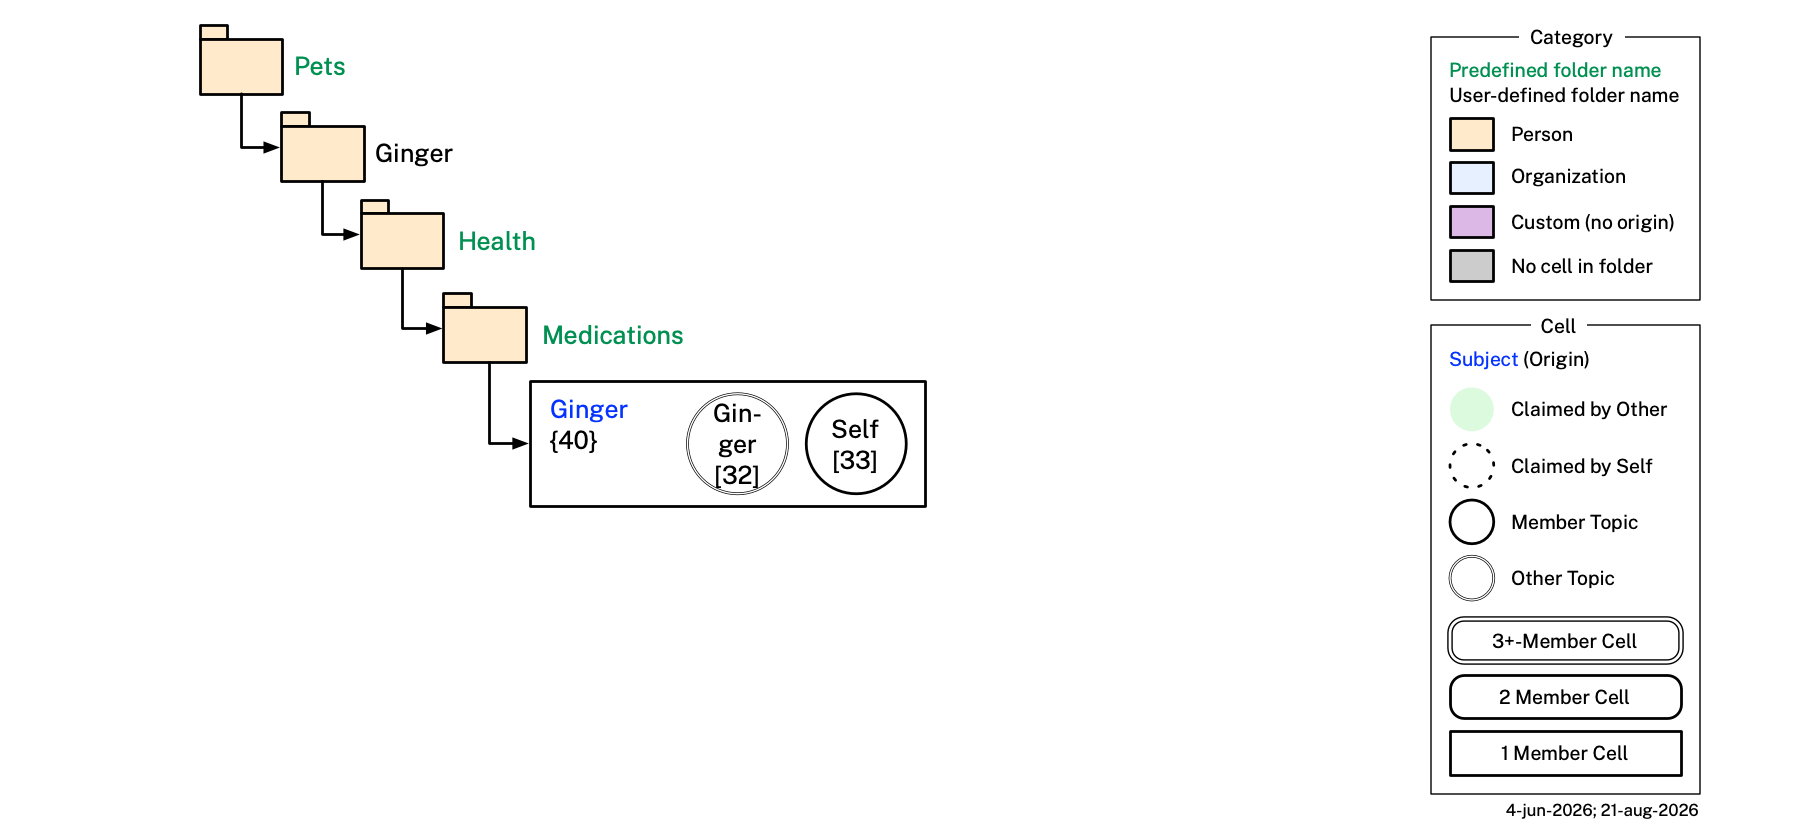
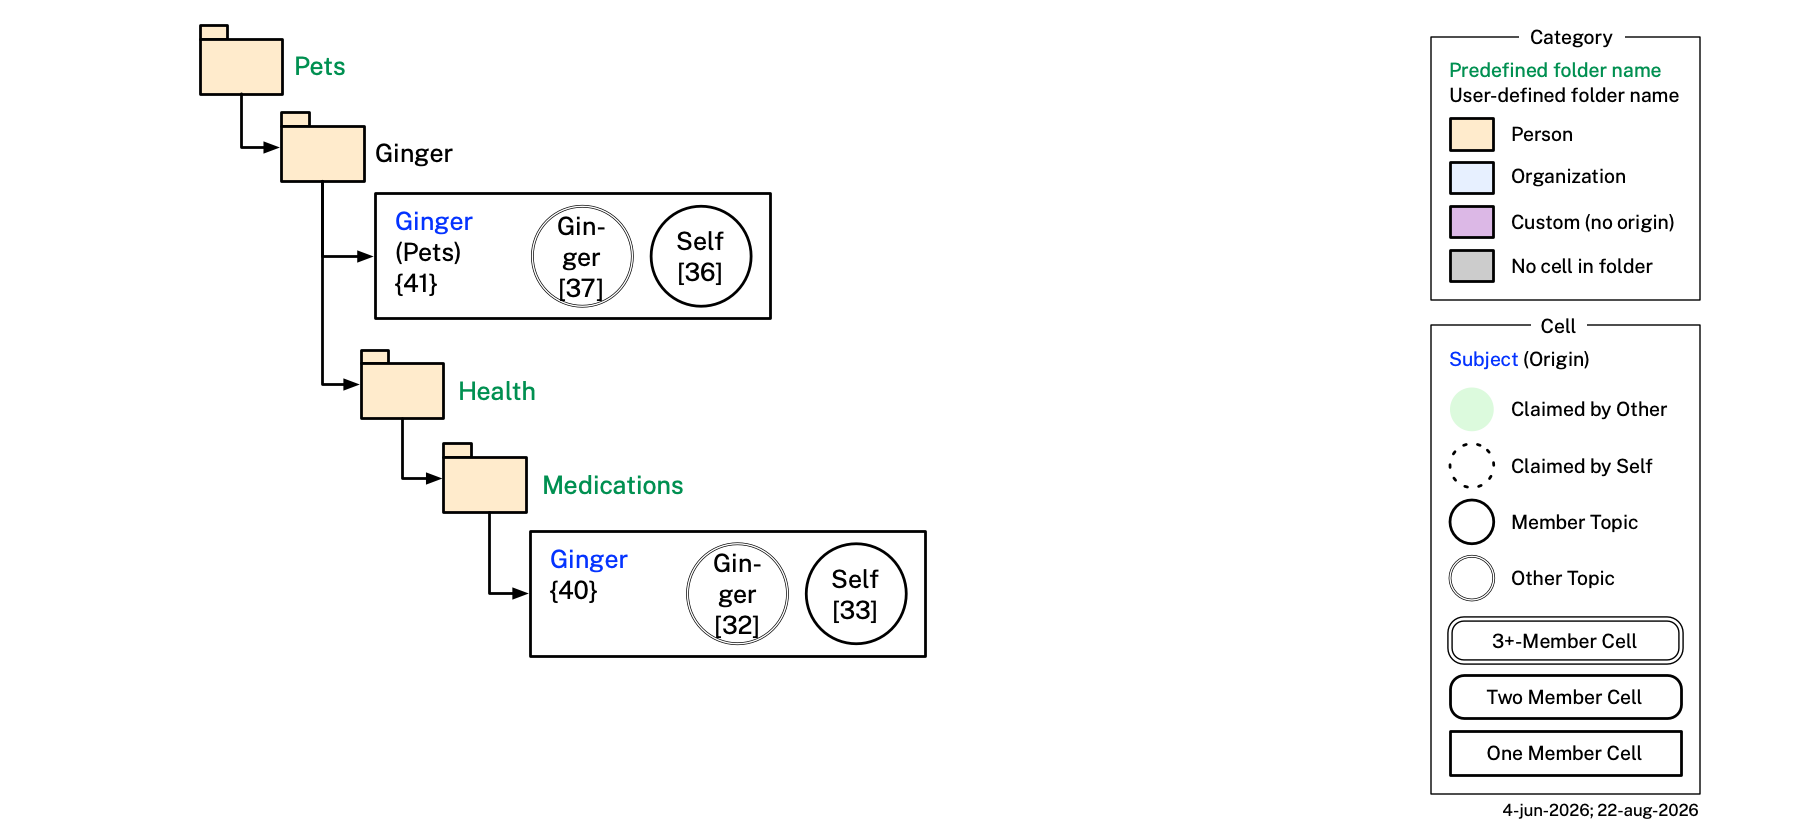
Confirm pets.png redraw; mark topic.png/category.png checks resolved
pets.png (redrawn 22-aug-2026): now shows a content box for the
"Ginger" cell (cell-41, {41}, member topic [36]/other topic [37]) in
addition to the existing "Medications" cell box (cell-40, {40}, member
topic [33]/other topic [32]) — closing the Check 1 gap where topics 36
and 37 had EXAMPLE.md rows but no diagram circle. Verified against
Checks 10a-10j: folder nesting, fill/text colors, subject/origin text,
border style, and {NN}/[NN] labels all match the real cell-databooks.

CLAUDE.md Checks 13 and 14 (topic.png/category.png vs topic.ttl/
category.ttl) are also marked Resolved: both diagrams were found to
already be redrawn and correctly matching their ontologies (current
TopicGraph/SCTopicGraph labels; Category with the Folder facet fully
dropped) — only the check text itself was stale.

diff --git a/CLAUDE.md b/CLAUDE.md
@@ -318,7 +318,7 @@ Note: this check's `^id:\s*(\S+)` regex is anchored at true line-start with no l
 
 - **10h — Black parenthetical origin-label text matches `cell:origin`'s class label**: Immediately after the blue Subject text (e.g. `Self (Companies)`), a cell box may carry a black parenthetical giving its `cell:origin` class's `rdfs:label` (from `category.ttl`) in human-readable form. It follows the exact same compression rule as the Category/Cell DataBook Filename Convention's `<local>(<catType>)` filename form: shown only when that label differs from the box's own folder-name label, and omitted entirely when the two are identical. This text must match the co-located cell-databook's actual `mia.origin` class's `rdfs:label`, verbatim — no more and no fewer words, never invented or abbreviated further. This is a visual check (no script) — e.g. `companies.png`'s "Google" and "ATT" boxes both show `(Companies)`, matching their shared `mia.origin: "cat:Companies"` (label "Companies"); `gov-state.png`'s "Texas Vital Records" and "California DMV" boxes show `(Birth Certificate)` and `(Drivers License)`, matching `cat:BirthCertificate`'s and `cat:DriversLicense`'s labels; `misc.png`'s "Ownership" box shows no parenthetical at all, correctly compressed since `cat:Ownership`'s label already equals the folder name "Ownership".
 
-- **10i — Black curly-brace `{NN}` label matches the cell's own `cell-<NN>` id**: As the last line of a cell box's content (immediately below the Subject/Origin text), a cell box may carry a small black `{NN}` label in curly braces — the cell's own number. As of the 8-aug-2026 rollout this label has been added to every cell box across the 10 pre-existing diagrams (a bare scaffolding folder with no rendered content box, e.g. `Work`/`Acme`/`Employees`, still carries none — that remains fine, not a violation); `pets.png` (the 11th diagram) is pending the user's manual draw and is expected to show its "Medications" box with `{40}` once drawn. Wherever `{NN}` appears, it must equal the zero-padded two-digit `<NN>` from the co-located cell-databook's own `id: http://www.example.org/mia/cells/cell-<NN>` (see Check 9). Don't confuse this with the numbered topic circles' `[NN]` labels (Check 10d) — those are topic numbers in square brackets attached to a circle; this is the cell's own number in curly braces attached to the box itself. This is a visual check (no automated OCR), but the script below prints every folder's actual `cell-<NN>` for quick cross-reference against whichever diagram is being checked — e.g. `people.png`'s "Bob Johnson" box shows `{16}` and its "Fred Flintstone" box shows `{17}`; `people2.png`'s "Paula Walker" (Immediate Family) box shows `{12}`, "Health & Wellness" shows `{13}`, "Jane Starostina" shows `{14}`, and "Med. App. Info" shows `{15}`; `companies.png`'s "Google"/"ATT" boxes show `{3}`/`{2}`; `finances.png`'s "Citibank" box shows `{4}`; `gov-state.png`'s "Texas Vital Records"/"California DMV" boxes show `{10}`/`{9}`; `gov-federal.png`'s "Social Security Administration"/"Department of State" boxes show `{6}`/`{5}`; `gov-municipality.png`'s "Boston"/"Paradise" boxes show `{7}`/`{8}`; `misc.png`'s "Ownership" box shows `{11}`; `affiliations.png`'s "Boston Hub Society" box shows `{1}`; `work.png`'s "Paula"/"Alice Walker" boxes show `{19}`/`{18}` — all confirmed matching their cell-databooks' actual ids. Run:
+- **10i — Black curly-brace `{NN}` label matches the cell's own `cell-<NN>` id**: As the last line of a cell box's content (immediately below the Subject/Origin text), a cell box may carry a small black `{NN}` label in curly braces — the cell's own number. As of the 8-aug-2026 rollout this label has been added to every cell box across all 11 diagrams (a bare scaffolding folder with no rendered content box, e.g. `Work`/`Acme`/`Employees`, still carries none — that remains fine, not a violation); `pets.png` was drawn 22-aug-2026 and confirmed showing its "Ginger" box with `{41}` and its "Medications" box with `{40}`. Wherever `{NN}` appears, it must equal the zero-padded two-digit `<NN>` from the co-located cell-databook's own `id: http://www.example.org/mia/cells/cell-<NN>` (see Check 9). Don't confuse this with the numbered topic circles' `[NN]` labels (Check 10d) — those are topic numbers in square brackets attached to a circle; this is the cell's own number in curly braces attached to the box itself. This is a visual check (no automated OCR), but the script below prints every folder's actual `cell-<NN>` for quick cross-reference against whichever diagram is being checked — e.g. `people.png`'s "Bob Johnson" box shows `{16}` and its "Fred Flintstone" box shows `{17}`; `people2.png`'s "Paula Walker" (Immediate Family) box shows `{12}`, "Health & Wellness" shows `{13}`, "Jane Starostina" shows `{14}`, and "Med. App. Info" shows `{15}`; `companies.png`'s "Google"/"ATT" boxes show `{3}`/`{2}`; `finances.png`'s "Citibank" box shows `{4}`; `gov-state.png`'s "Texas Vital Records"/"California DMV" boxes show `{10}`/`{9}`; `gov-federal.png`'s "Social Security Administration"/"Department of State" boxes show `{6}`/`{5}`; `gov-municipality.png`'s "Boston"/"Paradise" boxes show `{7}`/`{8}`; `misc.png`'s "Ownership" box shows `{11}`; `affiliations.png`'s "Boston Hub Society" box shows `{1}`; `work.png`'s "Paula"/"Alice Walker" boxes show `{19}`/`{18}` — all confirmed matching their cell-databooks' actual ids. Run:
 
 ```python
 import glob, re
@@ -332,9 +332,9 @@ for path in sorted(glob.glob('example/Cells/**/*.databook.md', recursive=True)):
         print(f'{m.group(1)}  {path}')
 ```
 
-- **10j — Fill color and folder-name-text color match real data**: Every cell across all 11 diagrams carries exactly two independent, mechanically-checkable colors, matching Check 10a's Person/Organization/Custom fill-swatch legend (see Check 15's identical rule for `cat-cell-topic.png`): a **fill** color, applied to the folder icon itself (the cell's own content box is always plain white and never carries fill) — tan if the folder's `mia.origin` resolves to `cat:Person`, light blue if `cat:Organization`, purple/Custom if the cell has no origin at all — and a folder-**name-text** color (green/"Predefined" if the folder's `title:` equals the origin class's own `rdfs:label` verbatim, plain black/"User-defined" otherwise — always black for a no-origin/Custom cell). This is a visual check (no automated pixel/OCR comparison) — use Check 20's script (identical rule, just applied to a different set of diagrams) to compute the correct fill/text color for every real folder and cross-reference against whichever diagram is being checked. Confirmed against the 10 pre-existing diagrams — e.g. `people.png`: "People"/"Others" tan fill + green text; "Bob Johnson"/"Fred Flintstone" tan fill + black text; `work.png`: "Paula"/"Alice Walker" light-blue fill + black text; `people2.png`: "Paula Walker"/"Jane Starostina"/"Med. App. Info" tan fill + black text; `companies.png`/`finances.png`/`gov-state.png`/`gov-federal.png`/`gov-municipality.png`/`misc.png`/`affiliations.png` all correctly updated too. `pets.png` (the 11th diagram, added alongside `cat:Pets`/`cat:PetsHealth`/`cat:PetsMedications`) is pending the user's manual draw — not yet confirmed. No real example cell currently uses the Custom (no-origin, `(custom)` filename) case — all 39 currently have an origin — so no example diagram box is expected to show purple fill yet.
+- **10j — Fill color and folder-name-text color match real data**: Every cell across all 11 diagrams carries exactly two independent, mechanically-checkable colors, matching Check 10a's Person/Organization/Custom fill-swatch legend (see Check 15's identical rule for `cat-cell-topic.png`): a **fill** color, applied to the folder icon itself (the cell's own content box is always plain white and never carries fill) — tan if the folder's `mia.origin` resolves to `cat:Person`, light blue if `cat:Organization`, purple/Custom if the cell has no origin at all — and a folder-**name-text** color (green/"Predefined" if the folder's `title:` equals the origin class's own `rdfs:label` verbatim, plain black/"User-defined" otherwise — always black for a no-origin/Custom cell). This is a visual check (no automated pixel/OCR comparison) — use Check 20's script (identical rule, just applied to a different set of diagrams) to compute the correct fill/text color for every real folder and cross-reference against whichever diagram is being checked. Confirmed against all 11 diagrams — e.g. `people.png`: "People"/"Others" tan fill + green text; "Bob Johnson"/"Fred Flintstone" tan fill + black text; `work.png`: "Paula"/"Alice Walker" light-blue fill + black text; `people2.png`: "Paula Walker"/"Jane Starostina"/"Med. App. Info" tan fill + black text; `companies.png`/`finances.png`/`gov-state.png`/`gov-federal.png`/`gov-municipality.png`/`misc.png`/`affiliations.png` all correctly updated too; `pets.png` (drawn 22-aug-2026, alongside `cat:Pets`/`cat:PetsHealth`/`cat:PetsMedications`): "Pets"/"Health"/"Medications" tan fill + green text (folder name matches origin label), "Ginger" tan fill + black text (origin `cat:Pets` label "Pets" ≠ folder name "Ginger"). No real example cell currently uses the Custom (no-origin, `(custom)` filename) case — all 40 currently have an origin — so no example diagram box is expected to show purple fill yet.
 
-The 11 diagrams are: `example/images/people.png`, `example/images/people2.png`, `example/images/work.png`, `example/images/companies.png`, `example/images/finances.png`, `example/images/gov-state.png`, `example/images/gov-federal.png`, `example/images/gov-municipality.png`, `example/images/misc.png`, `example/images/affiliations.png`, `example/images/pets.png`. (`health.png` was intentionally deleted — it wasn't useful; its content, e.g. Health & Wellness/Medical/Providers, lives in `people2.png` instead. `pets.png` is referenced from `EXAMPLE.md`'s "Ginger's Medications" section but does not yet exist on disk — pending the user's manual draw; Check 8 will flag it as a missing image link until then.)
+The 11 diagrams are: `example/images/people.png`, `example/images/people2.png`, `example/images/work.png`, `example/images/companies.png`, `example/images/finances.png`, `example/images/gov-state.png`, `example/images/gov-federal.png`, `example/images/gov-municipality.png`, `example/images/misc.png`, `example/images/affiliations.png`, `example/images/pets.png`. (`health.png` was intentionally deleted — it wasn't useful; its content, e.g. Health & Wellness/Medical/Providers, lives in `people2.png` instead. `pets.png` was drawn by the user 22-aug-2026 and confirmed against all sub-checks 10a–10j — it shows both the "Ginger" cell (cell-41, `{41}`, topics `[36]`/`[37]`) and the "Medications" cell (cell-40, `{40}`, topics `[32]`/`[33]`) as separate content boxes under the `Pets → Ginger → Health → Medications` folder nesting.)
 
 **Check 11 — Physical folder structure IS the category tree in `example/Cells/`**: This check applies only to `example/Cells/` — the user's own instance tree — since there is no longer a separate canonical-instance file tree to mirror (`categories-person/`/`categories-org/` were removed in category.ttl 1.8.0). There is no longer a `mia.child`/`mia.cell` YAML list to cross-check the tree against either — category.ttl 1.31.0 deleted `cat:child`/`cat:cell` (and `cat:Folder` itself) outright, so this check has no independently-asserted list to "mirror" at all; it collapses to a pure filesystem sanity check with no YAML frontmatter parsing at all. A folder counts as a category-tree node ("marker dir") iff it directly contains exactly one `*.databook.md` file (the only DataBook type in a user's instance tree is now cell-databook, so no `-cell` marker is needed to identify one) — that file is simultaneously the folder's real (or placeholder) content and its tree-node marker (cell.ttl's folder ownership boundary rule, 3.16.0/3.19.0). A folder can never legally hold more than one cell-databook (cell.ttl 3.22.0): a `cell:Cell` is self-contained, and letting two cells share a folder would risk a single file in that folder becoming ambiguously part of both — this check flags any such folder as an error. Folder naming is not standardized — it may be the category's display label, a role-based label, or anything else — but a cell-databook's own filename is now always the folder's exact verbatim name (see the Category/Cell DataBook Filename Convention), so this check's per-folder marker test and its filename root are one and the same string. ⚠ **Corrected, 22-aug-2026**: this used to additionally forbid bare, marker-less pass-through directories between two marker dirs — that was wrong, and directly contradicted README.md's own definition of a "regular filesystem folder" ("A folder without a matching cell DataBook is simply a regular file system folder, not a category folder — **even if it contains nested category folders of its own**"). A bare folder with no cell-databook of its own is legal anywhere in the tree, including between two marker dirs, as long as it isn't otherwise empty (i.e. something beneath it eventually has a cell-databook) — no current example under `example/Cells/` happens to need this (every existing folder, `example/Cells/Pets/Ginger/` included, turned out to warrant its own cell-databook after all — see `cat:Pets`'s reuse pattern below), but the rule itself remains correct and available for a future folder that's purely organizational. Run:
 
@@ -406,14 +406,14 @@ If a `TOO MANY CELLS` issue is found, move the extra file(s) out to their own ne
 - **12c** — the class hierarchy `Cell` → `TCell`/`ACell` (both abstract), and separately `ACell` → `MultiMember` (abstract) → `TwoMember`/`ThreePlusMember`, plus `ACell` → `OneMember`, shown in the diagram matches `cell.ttl`'s actual `rdfs:subClassOf` relationships (by class local name, not just position). `OneMember` and `MultiMember` must not be drawn as direct children of `Cell` — both moved under `ACell` in cell.ttl 3.7.0.
 - **12d** — ⚠ **Corrected, 22-aug-2026**: this item previously claimed `cell.png` displays each concrete `Cell` subtype's example `cell:label` value (`"Single-Member Cell"`, `"Two-Member Cell"`, `"Multi-Member Cell"`, later renamed `"1 Member Cell"`/`"2 Member Cell"`/`"3+ Member Cell"`) somewhere in the diagram, and that this text must match `cell.ttl`'s actual `cell:label` values. Direct inspection of the current `cell.png` shows this is not true — the diagram only draws the bare class local names (`OneMember`, `TwoMember`, `ThreePlusMember`) as box labels; no `cell:label` display string appears anywhere in it. There is accordingly nothing for this item to check in `cell.png` — the `cell:label` wording is instead verified where it's actually drawn, in the 11 example diagrams (Check 10f) and in `cat-cell-topic.png`/`images/folder-mapping.png`'s border-style legend entries (Checks 15/20). `cell:label` itself is still a real class-level default display name defined in `cell.ttl` (category.ttl 1.31.0 deleted `cat:label`, the per-instance display name it used to be distinguished from, outright, since it lived on the now-deleted `cat:Folder`) — `Cell`, `TCell`, `ACell`, and `MultiMember` are all abstract and carry no `cell:label` of their own — this item is only correcting where that text is expected to be rendered.
 
-**Check 13 — `topic.ttl` matches `images/topic-ontology/topic.png`**: ⚠ **Stale as of topic.ttl 1.15.0** — the diagram still shows boxes labeled `Topic` and `SCtopic`, the retired pre-1.15.0 class names; it needs manual redrawing to `TopicGraph`/`SCTopicGraph` and is described below in its pre-1.15.0 form for reference. Redrawn for the context→topic rename and the `subject` range broadening: `Topic` shows only `template`; `SCtopic` (subClassOf `Topic`) shows `subject` (targeting `xsd:anyURI` — any resource IRI, not necessarily `p:Person`/`o:Organization`) and `claimant` (targeting `p:Person`/`o:Organization`, not `i:PDNidentifier`) — no `about-by` arrow, matching the earlier deletion of `context:about-by`. No leaf subtype boxes below `SCtopic`, matching the earlier deletion of `SBScontext`/`OBScontext`/`OBOcontext`/`SBOcontext` — `SCTopicGraph` has no subclasses. Once redrawn for topic.ttl 1.15.0, the two boxes should simply read `TopicGraph` and `SCTopicGraph` — no change to which arrows they carry or those arrows' targets/cardinalities, this is a pure rename with no domain/range/cardinality changes. This diagram is the ontology-level picture of `topic:TopicGraph`'s structure. After any change to `topic.ttl` or to this diagram, verify:
+**Check 13 — `topic.ttl` matches `images/topic-ontology/topic.png`**: **Resolved, 22-aug-2026** — the user redrew this diagram; it now correctly shows `TopicGraph`/`SCTopicGraph` (the current topic.ttl 1.15.0 class names), not the retired pre-1.15.0 `Topic`/`SCtopic` labels. `TopicGraph` shows only `template` (targeting `p:PersonaTemplate`, matching `topic:template`'s actual `rdfs:range`); `SCTopicGraph` (subClassOf `TopicGraph`) shows `subject` (targeting `xsd:anyURI` — any resource IRI, not necessarily `p:Person`/`o:Organization`) and `claimant` (targeting `p:Person`/`o:Organization`, not `i:PDNidentifier`) — no `about-by` arrow, matching the earlier deletion of `context:about-by`. No leaf subtype boxes below `SCTopicGraph`, matching the earlier deletion of `SBScontext`/`OBScontext`/`OBOcontext`/`SBOcontext` — `SCTopicGraph` has no subclasses. This diagram is the ontology-level picture of `topic:TopicGraph`'s structure. After any change to `topic.ttl` or to this diagram, verify:
 
 - **13a** — every property arrow shown off `TopicGraph` in the diagram (`template`) has a corresponding `topic:` property in `topic.ttl` with `rdfs:domain topic:TopicGraph`, and its target type matches the property's `rdfs:range`.
 - **13b** — every property arrow shown off `SCTopicGraph` in the diagram (`subject`, `claimant`) has a corresponding `topic:` property with `rdfs:domain topic:SCTopicGraph`; `claimant`'s target in the diagram must match its actual `rdfs:range` — a union of `p:Person`/`o:Organization`, not `i:PDNidentifier`; `subject`'s target must match its actual `rdfs:range` — any resource IRI (`xsd:anyURI`), not a Person/Organization union. No `about-by` arrow should appear — `context:about-by` was deleted (context.ttl 1.9.0).
 - **13c** — every `topic:` property with domain `topic:TopicGraph` or `topic:SCTopicGraph` defined in `topic.ttl` appears in the diagram under the correct box (catches new properties added to the ttl but never drawn, or drawn under the wrong box).
 - **13d** — no subclasses appear below `SCTopicGraph` — `topic.ttl` defines none (`SBScontext`/`OBScontext`/`OBOcontext`/`SBOcontext` were deleted in context.ttl 1.8.0). If any reappear here or in `topic.ttl`, reconcile them.
 
-**Check 14 — `category.ttl` matches `images/category-ontology/category.png`**: Current as of category.ttl 1.31.0, pending the user's redraw — category.ttl 1.31.0 deleted the entire tree-position facet (`cat:Folder` and its subclasses `cat:CategoryDefined`/`cat:UserDefined`, plus `cat:child`/`cat:cell`/`cat:category`/`cat:catType`/`cat:label`) outright, so `category.png` should be redrawn to drop the `Folder` side entirely. This diagram is now the ontology-level picture of `cat:Category`'s structure alone: `cat:Category` (abstract, blue) carries only `templateCell` (to a `cell:TCell` box — narrowed from `cell:Cell` in category.ttl 1.18.0, once cell.ttl 3.7.0 split `cell:Cell` into its `TCell`/`ACell` facets) — an annotation asserted directly on the class, not an instance; `cat:Person`/`cat:Organization` (abstract, blue) are its direct subclasses, each with representative leaf examples (Affiliations/People/Work under Person; Suppliers/People (org) under Organization). No `Folder`/`CategoryDefined`/`UserDefined` boxes and no `child`/`cell`/`category`/`catType`/`label` arrows should appear anywhere. This diagram does not presume which side is authoritative when the two disagree — surface the discrepancy and ask. After any change to `category.ttl` or to this diagram, verify:
+**Check 14 — `category.ttl` matches `images/category-ontology/category.png`**: **Resolved, 22-aug-2026** — the user redrew this diagram to match category.ttl 1.31.0, which deleted the entire tree-position facet (`cat:Folder` and its subclasses `cat:CategoryDefined`/`cat:UserDefined`, plus `cat:child`/`cat:cell`/`cat:category`/`cat:catType`/`cat:label`) outright; the `Folder` side is now correctly dropped from the diagram entirely. This diagram is now the ontology-level picture of `cat:Category`'s structure alone: `cat:Category` (abstract, blue) carries only `templateCell` (to a `cell:TCell` box — narrowed from `cell:Cell` in category.ttl 1.18.0, once cell.ttl 3.7.0 split `cell:Cell` into its `TCell`/`ACell` facets) — an annotation asserted directly on the class, not an instance; `cat:Person`/`cat:Organization` (abstract, blue) are its direct subclasses, each with representative leaf examples (Affiliations/People/Work under Person; Suppliers/People (org) under Organization). No `Folder`/`CategoryDefined`/`UserDefined` boxes and no `child`/`cell`/`category`/`catType`/`label` arrows should appear anywhere. This diagram does not presume which side is authoritative when the two disagree — surface the discrepancy and ask. After any change to `category.ttl` or to this diagram, verify:
 
 - **14a** — the only property arrow in the diagram is `templateCell`, off `Category`, matching `category.ttl`'s `cat:templateCell` (`rdfs:domain owl:Class` — an annotation asserted on the class itself, not scoped to `cat:Category` specifically at the OWL level; `rdfs:range cell:TCell`). No `catType`, `child`, `cell`, `category`, or `label` arrow should appear anywhere — all five properties, along with the `Folder`/`CategoryDefined`/`UserDefined` classes they lived on, were deleted in category.ttl 1.31.0. No `templateShape` arrow should appear either — that's a `cell.ttl` property (see Check 12), never a `category.ttl` one. There must be no `Canonical` box and no `copiedFrom` arrow anywhere — both were removed in category.ttl 1.8.0, well before the 1.31.0 Folder deletion.
 - **14b** — every `cat:` property defined in `category.ttl` appears as an arrow in the diagram, under the box matching its domain (catches new properties added to the ttl but never drawn, or drawn under the wrong box). As of category.ttl 1.31.0 this means just `templateCell`.
